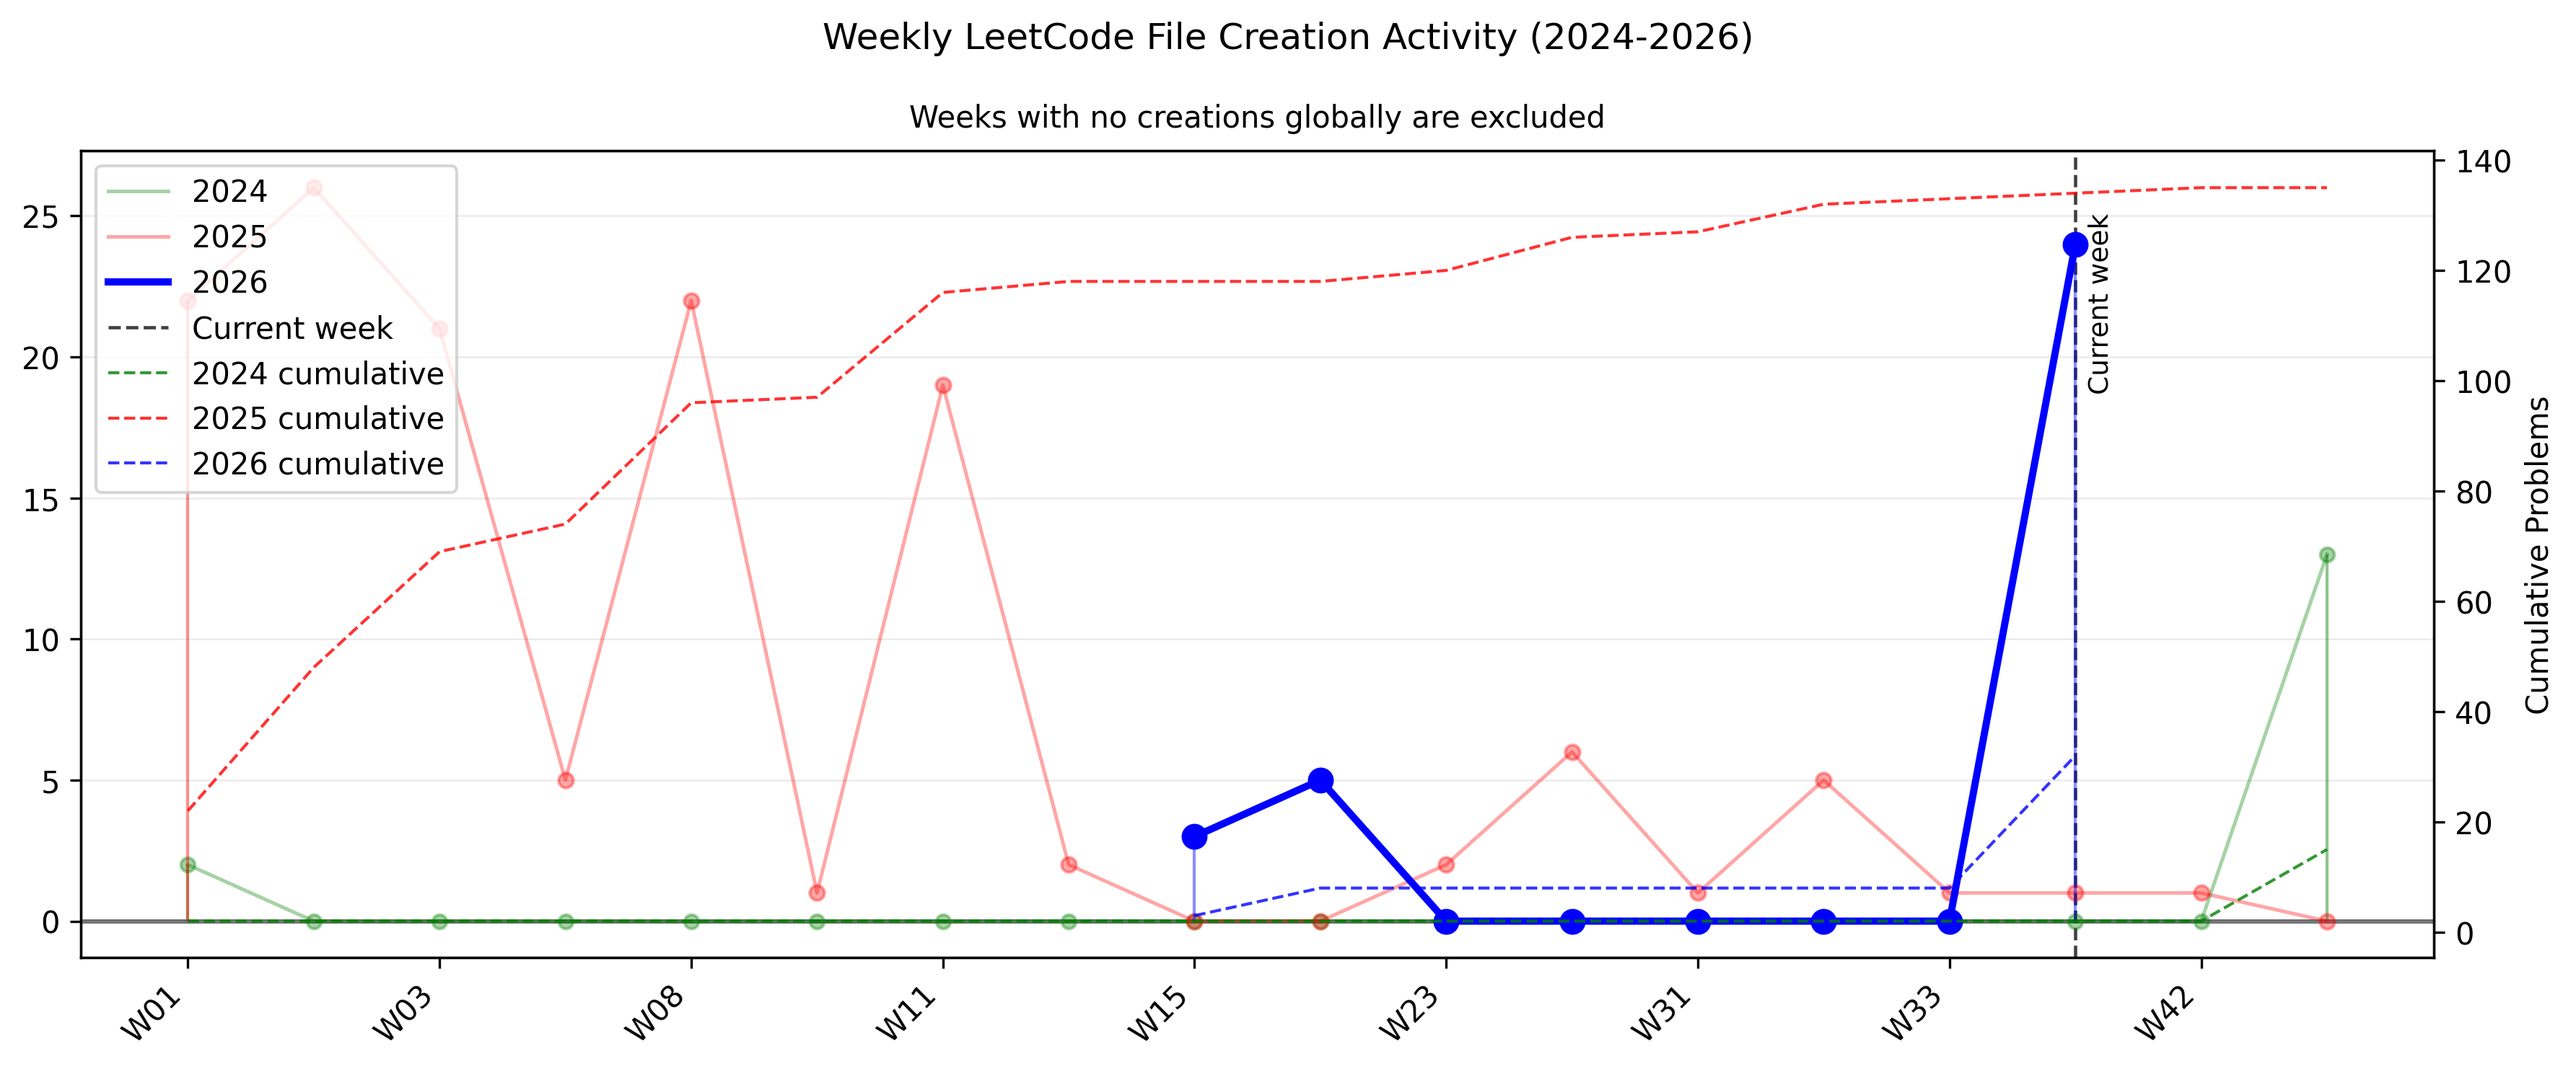
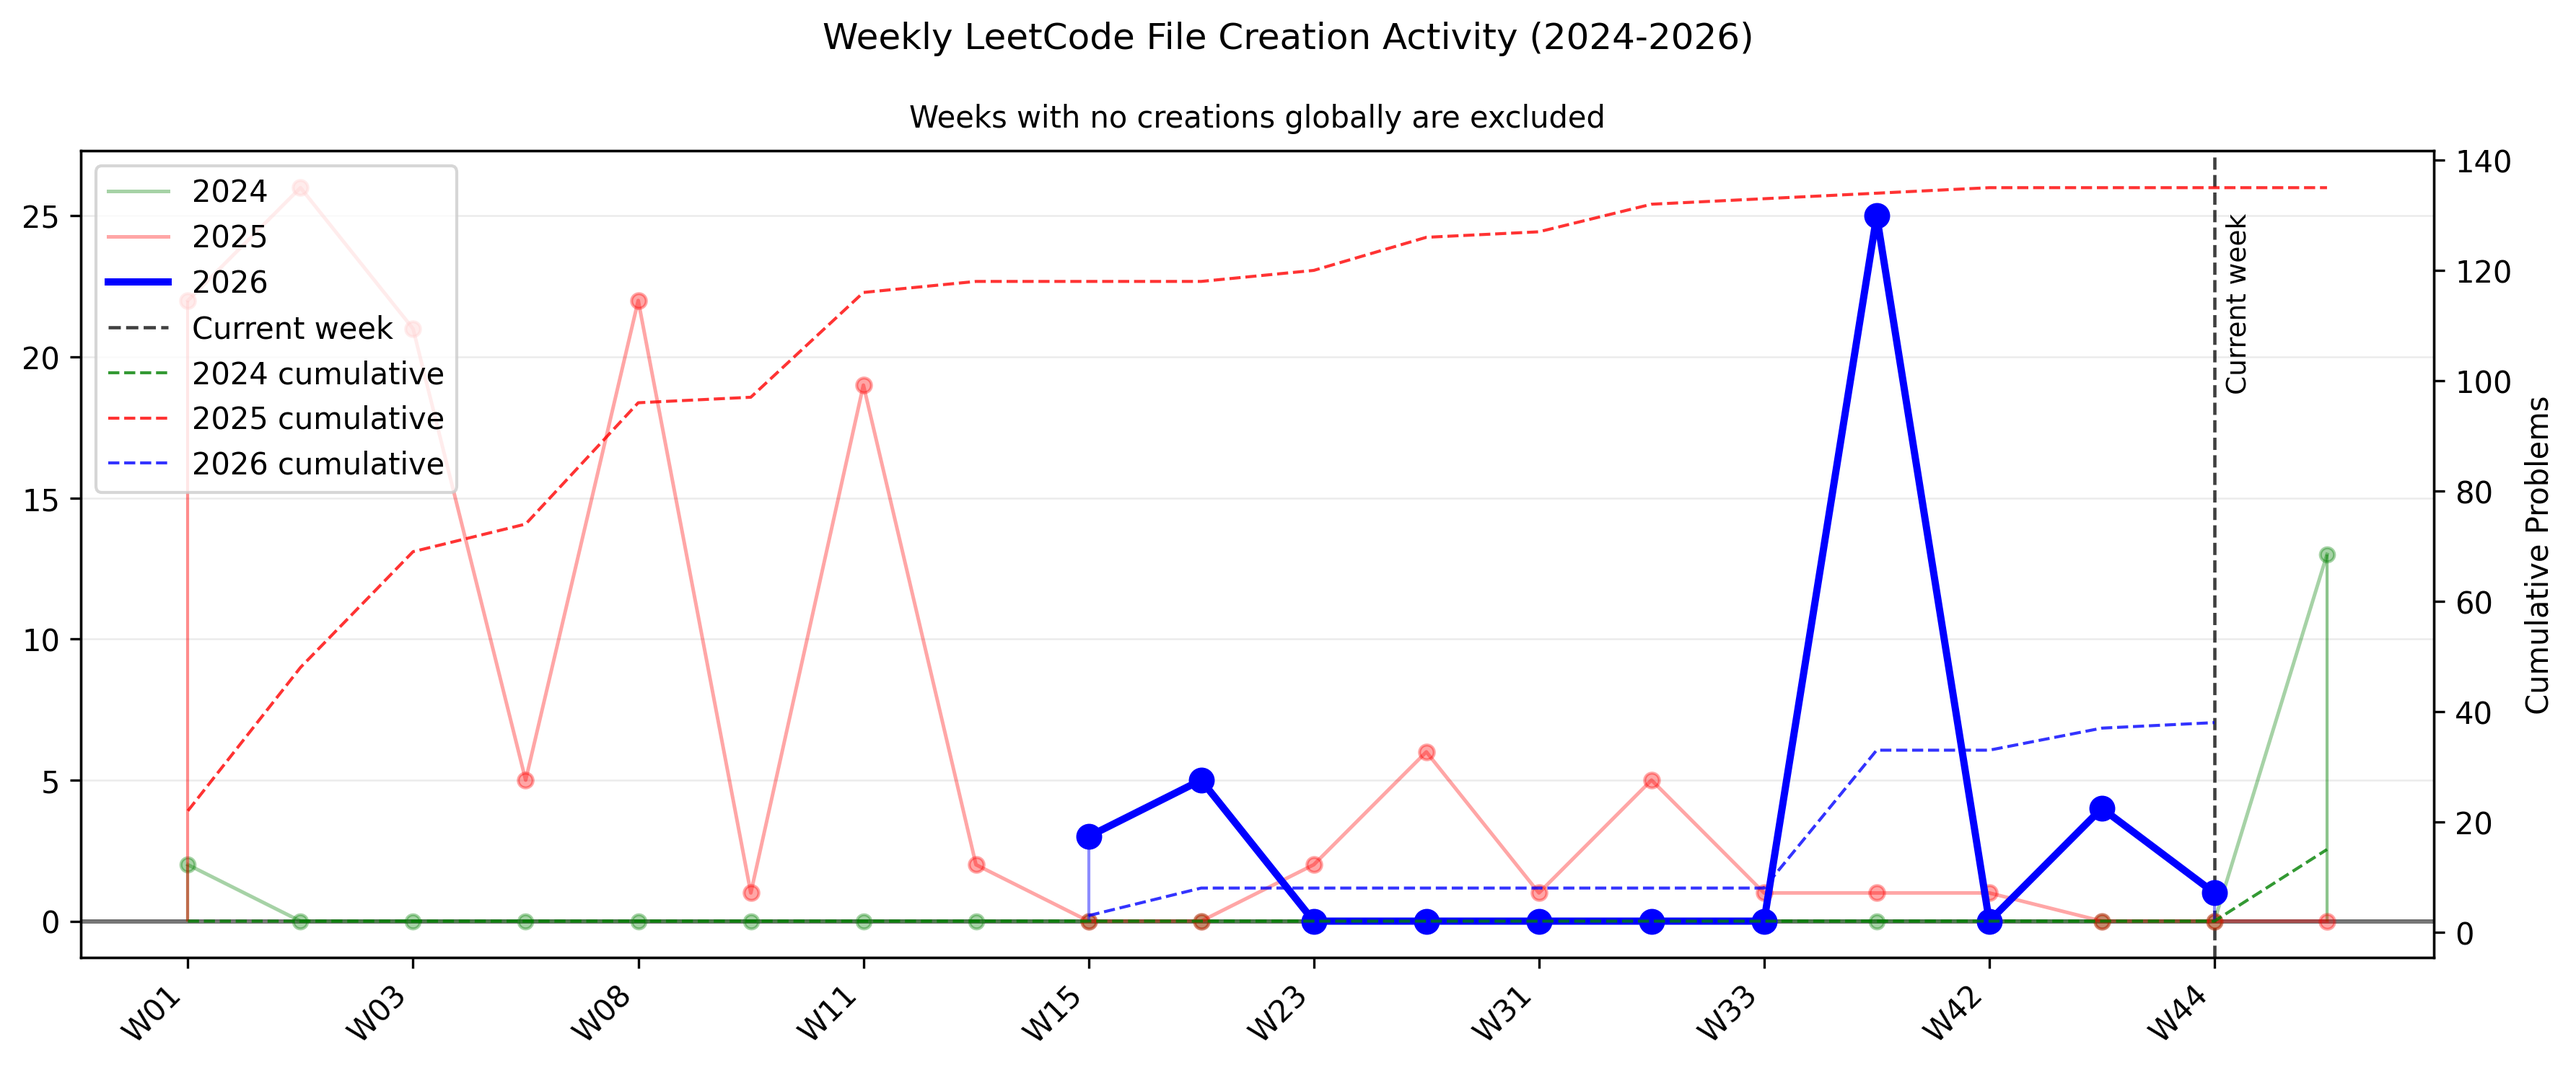
modified readme

diff --git a/README.md b/README.md
@@ -2,17 +2,17 @@
 
 Sharpening my problem-solving skills and doing this for fun.
 
-_Last updated: 26 Sep 2026_
+_Last updated: 26 Oct 2026_
 
 ---
 
 ## 📊 Stats
 
-- **Total Problems Solved:** 185
+- **Total Problems Solved:** 191
 - **Difficulty Breakdown:**
   - 🟢 Easy: 141
-  - 🟡 Medium: 41
-  - 🔴 Hard: 3
+  - 🟡 Medium: 45
+  - 🔴 Hard: 5
 
 ---
 
@@ -33,6 +33,7 @@ _Last updated: 26 Sep 2026_
 | 11   | Container With Most Water                                       | 🟡 Medium   | 13 Jan 2025 | [View](./0011M%20Container%20With%20Most%20Water.py)                                                 |
 | 13   | Roman to Integer                                                | 🟢 Easy     | 16 Mar 2025 | [View](./0013E%20Roman%20to%20Integer.py)                                                            |
 | 17   | Letter Combinations of a Phone Number                           | 🟡 Medium   | 16 Mar 2025 | [View](./0017M%20Letter%20Combinations%20of%20a%20Phone%20Number.py)                                 |
+| 18   | 4Sum                                                            | 🟡 Medium   | 26 Sep 2026 | [View](./0018M%204Sum.py)                                                                            |
 | 20   | Valid Parentheses                                               | 🟢 Easy     | 29 Dec 2024 | [View](./0020E%20Valid%20Parentheses.py)                                                             |
 | 21   | Merge Two Sorted Lists                                          | 🟢 Easy     | 09 Jun 2025 | [View](./0021E%20Merge%20Two%20Sorted%20Lists.py)                                                    |
 | 22   | Generate Parentheses                                            | 🟡 Medium   | 16 Mar 2025 | [View](./0022M%20Generate%20Parentheses.py)                                                          |
@@ -40,8 +41,11 @@ _Last updated: 26 Sep 2026_
 | 27   | Remove Element                                                  | 🟢 Easy     | 24 Dec 2024 | [View](./0027E%20Remove%20Element.py)                                                                |
 | 33   | Search in Rotated Sorted Array                                  | 🟡 Medium   | 08 Aug 2025 | [View](./0033M%20Search%20in%20Rotated%20Sorted%20Array.py)                                          |
 | 35   | Search Insert Position                                          | 🟢 Easy     | 11 Feb 2025 | [View](./0035E%20Search%20Insert%20Position.py)                                                      |
+| 46   | Permutations                                                    | 🟡 Medium   | 23 Oct 2026 | [View](./0046M%20Permutations.py)                                                                    |
 | 48   | Rotate Image                                                    | 🟡 Medium   | 07 Mar 2025 | [View](./0048M%20Rotate%20Image.py)                                                                  |
 | 50   | Pow(x, n)                                                       | 🟡 Medium   | 07 Apr 2026 | [View](./0050M%20Pow%28x%2C%20n%29.py)                                                               |
+| 51   | N-Queens                                                        | 🔴 Hard     | 26 Oct 2026 | [View](./0051H%20N-Queens.py)                                                                        |
+| 52   | N-Queens II                                                     | 🔴 Hard     | 23 Oct 2026 | [View](./0052H%20N-Queens%20II.py)                                                                   |
 | 53   | Maximum Subarray                                                | 🟡 Medium   | 07 Apr 2026 | [View](./0053M%20Maximum%20Subarray.py)                                                              |
 | 58   | Length of Last Word                                             | 🟢 Easy     | 24 Dec 2024 | [View](./0058E%20Length%20of%20Last%20Word.py)                                                       |
 | 66   | Plus One                                                        | 🟢 Easy     | 02 Jan 2025 | [View](./0066E%20Plus%20One.py)                                                                      |
@@ -49,8 +53,10 @@ _Last updated: 26 Sep 2026_
 | 70   | Climbing Stairs                                                 | 🟢 Easy     | 08 Aug 2025 | [View](./0070E%20Climbing%20Stairs.py)                                                               |
 | 74   | Search a 2D Matrix                                              | 🟡 Medium   | 15 Aug 2025 | [View](./0074M%20Search%20a%202D%20Matrix.py)                                                        |
 | 75   | Sort Colors                                                     | 🟡 Medium   | 10 Jan 2025 | [View](./0075M%20Sort%20Colors.py)                                                                   |
+| 78   | Subsets                                                         | 🟡 Medium   | 22 Oct 2026 | [View](./0078M%20Subsets.py)                                                                         |
 | 83   | Remove Duplicates from Sorted List                              | 🟢 Easy     | 22 Sep 2026 | [View](./0083E%20Remove%20Duplicates%20from%20Sorted%20List.py)                                      |
 | 88   | Merge Sorted Array                                              | 🟢 Easy     | 04 Jan 2025 | [View](./0088E%20Merge%20Sorted%20Array.py)                                                          |
+| 90   | Subsets II                                                      | 🟡 Medium   | 22 Oct 2026 | [View](./0090M%20Subsets%20II.py)                                                                    |
 | 94   | Binary Tree Inorder Traversal                                   | 🟢 Easy     | 22 Sep 2026 | [View](./0094E%20Binary%20Tree%20Inorder%20Traversal.py)                                             |
 | 100  | Same Tree                                                       | 🟢 Easy     | 22 Sep 2026 | [View](./0100E%20Same%20Tree.py)                                                                     |
 | 101  | Symmetric Tree                                                  | 🟢 Easy     | 22 Sep 2026 | [View](./0101E%20Symmetric%20Tree.py)                                                                |
